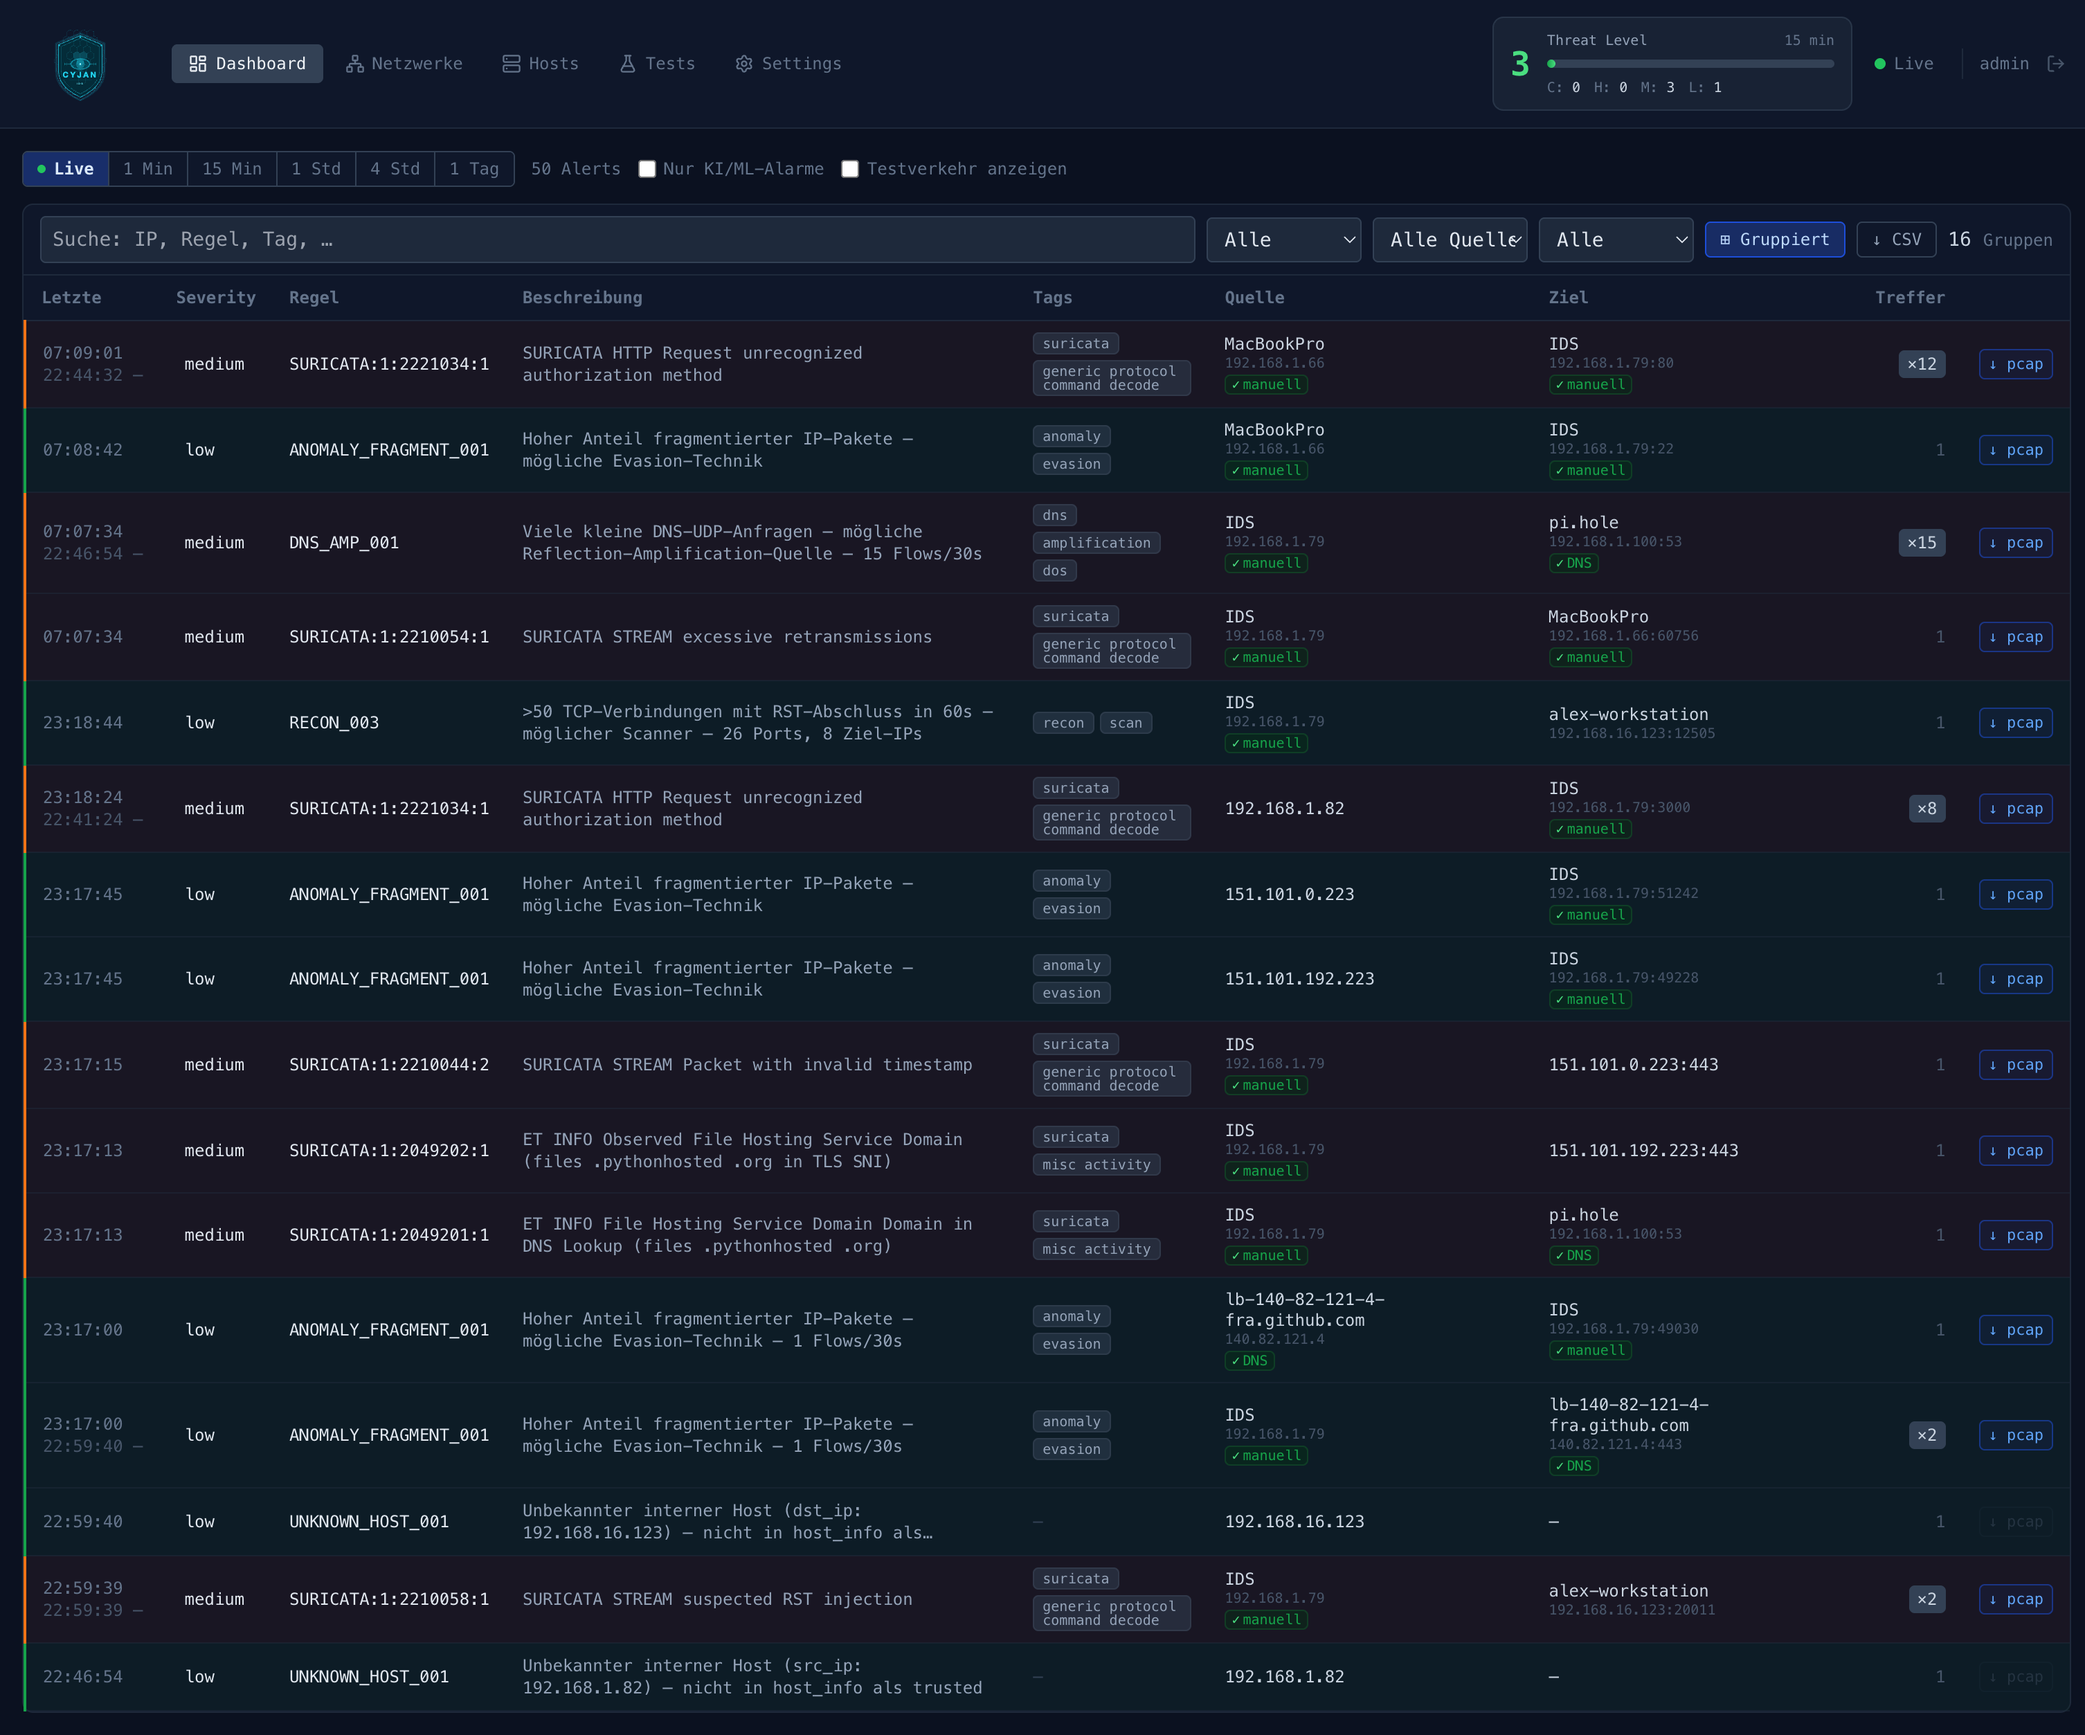
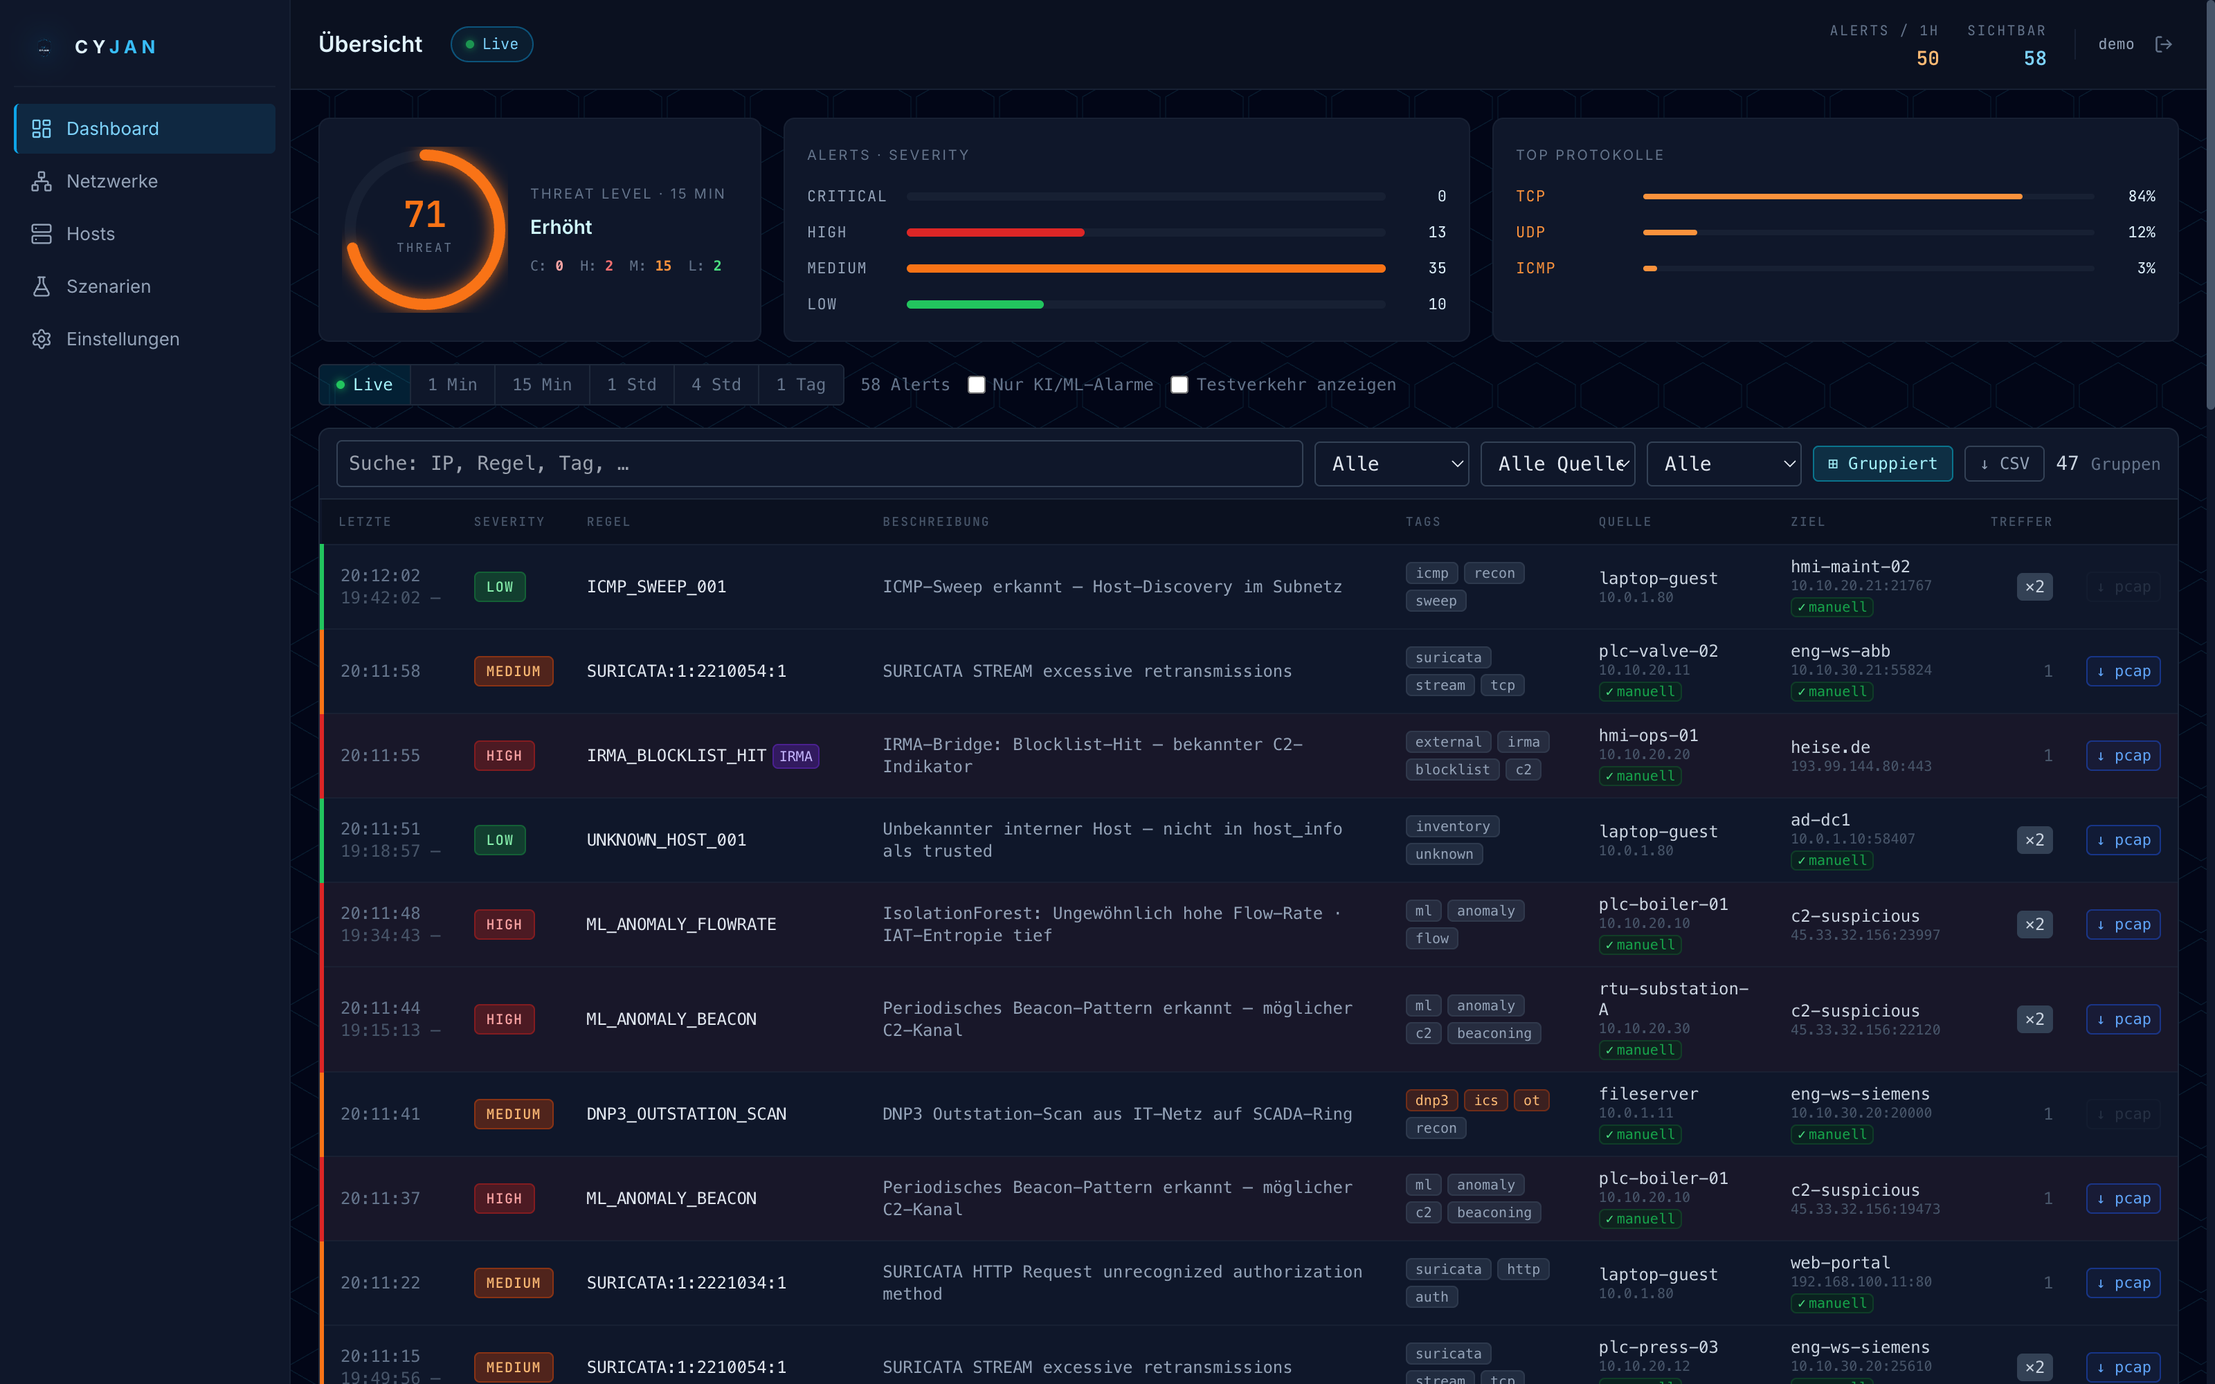
Rename Live Demo → The App at a Glance; refresh screenshots from demo.cyjan.dev
The live-demo nav item is now "The App at a Glance" and the section itself
is in English to stay consistent with the English-language marketing site.
Tab labels go from "Host-Inventar" / "Netzwerke" to "Host Inventory" /
"Networks", and the three feature callouts under the screenshot are
translated. Section heading eyebrow reads "LIVE DEPLOYMENT" instead of
"PRODUKTIVE INSTALLATION".

Replace dashboard.png, hosts.png, and networks.png with fresh captures
taken from the public demo (demo.cyjan.dev, demo/demo) at 1600×1000 so
they reflect the current fleet (26 hosts, 5 networks, live alert mix).

diff --git a/index.html b/index.html
@@ -141,7 +141,7 @@
     </a>
     <div class="hidden md:flex items-center gap-8 text-sm font-medium text-slate-400">
       <a href="#features" class="hover:text-sky-400 transition-colors">Features</a>
-      <a href="#demo" class="hover:text-sky-400 transition-colors">Live Demo</a>
+      <a href="#demo" class="hover:text-sky-400 transition-colors">The App at a Glance</a>
       <a href="#architecture" class="hover:text-sky-400 transition-colors">Architecture</a>
       <a href="#quickstart" class="hover:text-sky-400 transition-colors">Quick Start</a>
       <a href="#opensource" class="hover:text-sky-400 transition-colors">Open Source</a>
@@ -415,16 +415,16 @@
   </div>
 </section>
 
-<!-- Live Demo / App Preview -->
+<!-- The App at a Glance / App Preview -->
 <section id="demo" class="py-24 bg-slate-950/60">
   <div class="max-w-7xl mx-auto px-6">
     <div class="text-center mb-16">
       <div class="inline-flex items-center gap-2 px-3 py-1.5 rounded-full text-xs font-medium border border-green-700/50 text-green-400 bg-green-900/20 mb-4">
         <span class="w-1.5 h-1.5 rounded-full bg-green-400 pulse-dot"></span>
-        PRODUKTIVE INSTALLATION
+        LIVE DEPLOYMENT
       </div>
-      <h2 class="text-4xl md:text-5xl font-black gradient-text">Die App in Aktion.</h2>
-      <p class="text-slate-400 mt-4 text-lg max-w-2xl mx-auto">Echte Alerts, echte Netzwerke — Screenshots aus einer laufenden CYJAN IDS Instanz.</p>
+      <h2 class="text-4xl md:text-5xl font-black gradient-text">The App at a Glance.</h2>
+      <p class="text-slate-400 mt-4 text-lg max-w-2xl mx-auto">Real alerts, real networks — screenshots captured from a live CYJAN IDS deployment.</p>
     </div>
 
     <!-- Tab switcher -->
@@ -435,11 +435,11 @@
       </button>
       <button onclick="showTab('tab-hosts')" id="btn-hosts"
         class="demo-tab-btn px-5 py-2 rounded-xl text-sm font-medium border transition-all border-slate-700 text-slate-400 hover:border-sky-700 hover:text-sky-400">
-        Host-Inventar
+        Host Inventory
       </button>
       <button onclick="showTab('tab-networks')" id="btn-networks"
         class="demo-tab-btn px-5 py-2 rounded-xl text-sm font-medium border transition-all border-slate-700 text-slate-400 hover:border-sky-700 hover:text-sky-400">
-        Netzwerke
+        Networks
       </button>
     </div>
 
@@ -461,13 +461,13 @@
       </div>
 
       <div id="tab-dashboard" class="demo-tab">
-        <img src="screenshots/dashboard.png" alt="CYJAN IDS Dashboard mit Live-Alerts" class="w-full" loading="lazy" />
+        <img src="screenshots/dashboard.png" alt="CYJAN IDS dashboard with a live alert feed" class="w-full" loading="lazy" />
       </div>
       <div id="tab-hosts" class="demo-tab hidden">
-        <img src="screenshots/hosts.png" alt="CYJAN IDS Host-Inventar" class="w-full" loading="lazy" />
+        <img src="screenshots/hosts.png" alt="CYJAN IDS host inventory" class="w-full" loading="lazy" />
       </div>
       <div id="tab-networks" class="demo-tab hidden">
-        <img src="screenshots/networks.png" alt="CYJAN IDS Netzwerkverwaltung" class="w-full" loading="lazy" />
+        <img src="screenshots/networks.png" alt="CYJAN IDS network inventory" class="w-full" loading="lazy" />
       </div>
     </div>
 
@@ -478,21 +478,21 @@
           <span class="w-2 h-2 rounded-full bg-green-400 pulse-dot"></span>
           <span class="font-semibold text-sky-100">Live Alert Feed</span>
         </div>
-        <p class="text-slate-400 leading-relaxed">Echtzeit-WebSocket-Stream aller Alarme — mit Schweregrad, Quelle, Ziel, Tags und direktem PCAP-Download.</p>
+        <p class="text-slate-400 leading-relaxed">Real-time WebSocket stream of every alert — severity, source, destination, tags, and one-click PCAP download.</p>
       </div>
       <div class="card-bg rounded-xl p-5 glow-border text-sm">
         <div class="flex items-center gap-2 mb-2">
           <span class="w-2 h-2 rounded-full bg-sky-400"></span>
           <span class="font-semibold text-sky-100">Threat Level Gauge</span>
         </div>
-        <p class="text-slate-400 leading-relaxed">Aggregierter Bedrohungsindex in Echtzeit — C/H/M/L-Aufschlüsselung für sofortigen Überblick über die Netzwerkgesundheit.</p>
+        <p class="text-slate-400 leading-relaxed">Live aggregated threat index — critical / high / medium / low breakdown for an instant read on network health.</p>
       </div>
       <div class="card-bg rounded-xl p-5 glow-border text-sm">
         <div class="flex items-center gap-2 mb-2">
           <span class="w-2 h-2 rounded-full bg-purple-400"></span>
           <span class="font-semibold text-sky-100">Host Trust System</span>
         </div>
-        <p class="text-slate-400 leading-relaxed">28 bekannte Hosts, automatisch angereichert via DNS und GeoIP — unbekannte Geräte lösen sofort einen Alert aus.</p>
+        <p class="text-slate-400 leading-relaxed">Every host auto-enriched via DNS and GeoIP — unknown devices trigger an alert the moment they appear.</p>
       </div>
     </div>
   </div>
